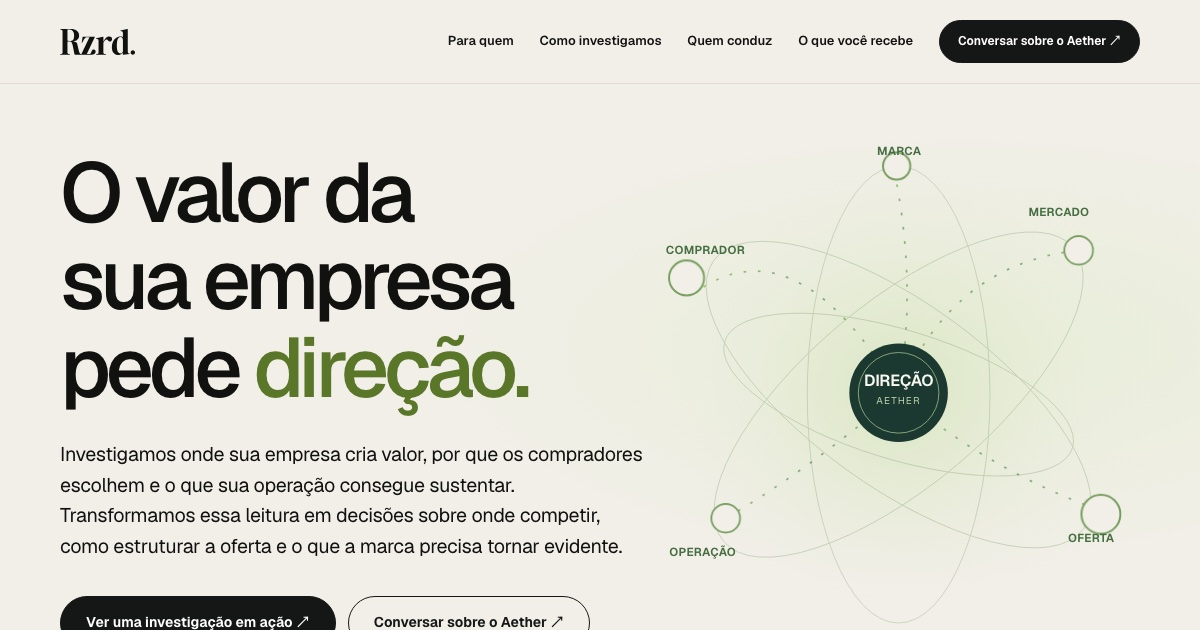
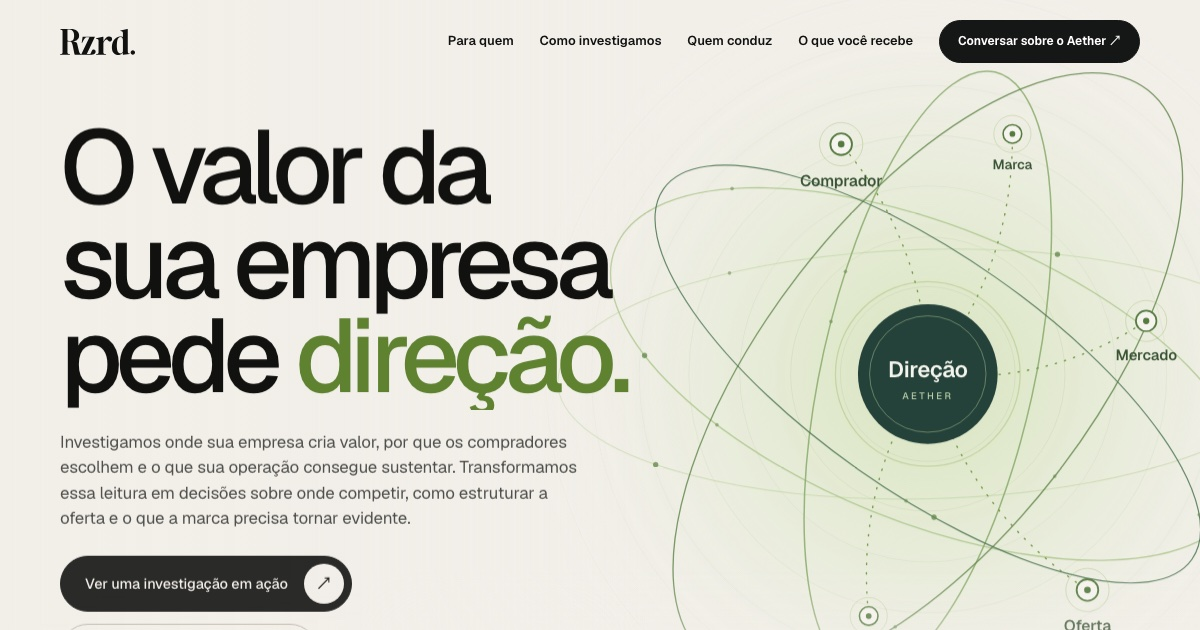
Aether: topo no estilo da Vortex com campo animado, demonstrações em iPad e página sem cara de IA
Campo de relações (comprador, mercado, oferta, operação e marca fluindo para a direção) com órbitas em movimento e inclinação pelo mouse; título grande com entrada por linha. Método, entregas e caso INNAP dentro de iPads. Tipografia só em Geist, sem selos, chips e caixas pastel; retratos grandes em Quem conduz; fechamento com as órbitas do topo. Texto e ordem do protótipo intactos.

diff --git a/aether/index.html b/aether/index.html
@@ -38,7 +38,8 @@
 <link href="favicon.svg" rel="icon" type="image/svg+xml"/>
 <link href="apple-touch-icon.png" rel="apple-touch-icon"/>
 <link as="font" crossorigin="" href="fonts/geist-latin.woff2" rel="preload" type="font/woff2"/>
-<link href="css/aether.css?v=1" rel="stylesheet"/>
+<link href="css/aether.css?v=2" rel="stylesheet"/>
+<link href="css/aether-v2.css?v=1" rel="stylesheet"/>
 </head><body>
 <svg width="0" height="0" style="position:absolute" aria-hidden="true"><symbol id="rzrdLogo" viewBox="0 0 1454 503.925">
 <path d="M0 494.173C0 492.462 0.855444 491.265 2.56633 490.58C9.06771 488.869 15.2269 487.33 21.0439 485.961C26.861 484.25 31.8225 482.197 35.9287 479.802C40.0348 477.406 43.2855 474.498 45.6807 471.076C48.076 467.312 49.2736 462.693 49.2736 457.218V40.4454C49.2736 34.9706 48.076 30.5223 45.6807 27.1005C43.2855 23.3365 40.0348 20.2569 35.9287 17.8617C31.8225 15.4664 26.861 13.5845 21.0439 12.2157C15.2269 10.5049 9.06771 8.79397 2.56633 7.08308C0.855444 6.39873 0 5.20111 0 3.4902C0 1.43714 0.855444 0.410608 2.56633 0.410608H213.006C236.958 0.410608 258.515 3.14804 277.677 8.62289C296.839 14.0977 313.093 22.31 326.438 33.2597C340.125 43.8672 350.732 57.041 358.26 72.7812C365.788 88.5214 369.723 106.828 370.065 127.701C370.407 140.704 368.868 152.509 365.446 163.116C362.024 173.381 357.234 182.62 351.074 190.833C345.257 198.703 338.243 205.546 330.03 211.363C321.818 217.18 313.093 221.971 303.854 225.735C292.904 230.183 280.586 233.434 266.899 235.487C253.554 237.198 241.406 238.224 230.457 238.566C243.117 239.593 255.265 241.133 266.899 243.186C278.533 244.897 288.798 247.463 297.695 250.885C306.591 253.964 313.948 257.899 319.765 262.69C325.924 267.48 329.859 273.469 331.57 280.654L364.933 420.776C368.354 434.805 371.947 445.926 375.711 454.138C379.475 462.008 383.41 468.339 387.516 473.129C391.965 477.578 396.584 480.999 401.375 483.395C406.165 485.79 411.469 488.185 417.286 490.58C419.339 491.265 420.365 492.462 420.365 494.173C420.365 496.226 419.339 497.253 417.286 497.253H299.234C294.444 497.253 290.851 497.253 288.456 497.253C286.403 496.911 284.863 496.397 283.836 495.713C282.81 494.686 281.954 493.318 281.27 491.607C280.928 489.554 280.415 486.645 279.73 482.881L245.341 315.043C240.209 288.695 233.707 270.218 225.837 259.61C217.967 249.003 209.584 243.699 200.687 243.699H144.741V457.218C144.741 462.693 145.939 467.312 148.334 471.076C150.729 474.498 153.98 477.406 158.086 479.802C162.534 482.197 167.496 484.25 172.971 485.961C178.788 487.33 184.947 488.869 191.448 490.58C193.502 491.265 194.528 492.462 194.528 494.173C194.528 496.226 193.502 497.253 191.448 497.253H2.56633C0.855444 497.253 0 496.226 0 494.173ZM144.741 202.124C144.741 209.652 145.083 215.469 145.768 219.576C146.452 223.682 148.505 226.761 151.927 228.814C155.349 230.525 160.31 231.723 166.812 232.407C173.655 232.749 183.065 233.092 195.041 233.434C205.991 233.434 216.256 231.894 225.837 228.814C235.76 225.393 244.315 219.575 251.501 211.363C258.686 202.809 264.161 191.517 267.925 177.488C272.031 163.116 273.913 144.81 273.571 122.568C272.887 99.6422 269.636 80.9935 263.819 66.622C258.002 51.9084 250.132 40.4454 240.209 32.2332C230.628 24.0209 219.165 18.3749 205.82 15.2953C192.817 12.2157 178.617 10.6759 163.219 10.6759H144.741V202.124Z" fill="currentColor"/>
@@ -50,7 +51,18 @@
 <header class="site-header"><div class="wrap inner"><a class="brand" href="https://mateusmvff-a11y.github.io/rzrd-previa/v1.html"><svg class="logo" viewBox="0 0 1454 503.925" role="img" aria-label="Rzrd."><use href="#rzrdLogo"/></svg></a><nav aria-label="Navegação principal" class="site-nav"><a href="#para-quem">Para quem</a><a href="#metodo">Como investigamos</a><a href="#direcao">Quem conduz</a><a href="#entrega">O que você recebe</a><a class="action" href="#contato">Conversar sobre o Aether ↗</a></nav><button aria-controls="mobileMenu" aria-expanded="false" class="mobile-toggle" id="menuBtn">Menu ☰</button></div></header>
 <nav aria-label="Navegação móvel" class="mobile-menu" hidden="" id="mobileMenu"><a href="#para-quem">Para quem</a><a href="#metodo">Como investigamos</a><a href="#direcao">Quem conduz</a><a href="#entrega">O que você recebe</a><a href="#contato">Vamos conversar</a></nav>
 <main>
-<section class="hero" id="topo"><div class="wrap hero-grid"><div class="hero-copy"><h1>O valor da sua empresa pede <em>direção.</em></h1><p class="lead">Investigamos onde sua empresa cria valor, por que os compradores escolhem e o que sua operação consegue sustentar. Transformamos essa leitura em decisões sobre onde competir, como estruturar a oferta e o que a marca precisa tornar evidente.</p><div class="hero-acts"><a class="action" href="#metodo">Ver uma investigação em ação ↗</a><a class="action ghost" href="#contato">Conversar sobre o Aether ↗</a></div></div><div class="hero-art"><svg aria-label="Campo de relações entre comprador, mercado, oferta, operação e marca convergindo em uma direção" role="img" viewbox="0 0 660 660"><defs><radialgradient id="bg"><stop stop-color="#D5E4BC" stop-opacity=".8"></stop><stop offset="1" stop-color="#F2EFE9" stop-opacity="0"></stop></radialgradient><lineargradient id="line"><stop stop-color="#91B86A"></stop><stop offset=".5" stop-color="#6E9F74"></stop><stop offset="1" stop-color="#8AA86D"></stop></lineargradient></defs><circle cx="330" cy="330" fill="url(#bg)" r="290"></circle><g fill="none" opacity=".36" stroke="#819D6D"><ellipse cx="330" cy="330" rx="255" ry="102" transform="rotate(36 330 330)"></ellipse><ellipse cx="330" cy="330" rx="255" ry="102" transform="rotate(90 330 330)"></ellipse><ellipse cx="330" cy="330" rx="255" ry="102" transform="rotate(140 330 330)"></ellipse><ellipse cx="330" cy="330" rx="203" ry="72" transform="rotate(17 330 330)"></ellipse></g><g class="hero-flow" fill="none" opacity=".82" stroke="url(#line)" stroke-width="2"><path d="M112 210 Q220 143 330 328"></path><path d="M531 169 Q390 184 330 328"></path><path d="M538 453 Q418 406 330 328"></path><path d="M137 468 Q230 414 330 328"></path><path d="M328 95 Q350 215 330 328"></path></g><g fill="#F2EFE9" stroke="#789E5F" stroke-width="2"><circle class="hero-node" cx="112" cy="210" r="18"></circle><circle class="hero-node" cx="531" cy="169" r="16"></circle><circle class="hero-node" cx="538" cy="453" r="20"></circle><circle class="hero-node" cx="137" cy="468" r="16"></circle><circle class="hero-node" cx="328" cy="95" r="14"></circle></g><g fill="#476E42" font-size="13" font-weight="650" letter-spacing=".3"><text x="70" y="173">COMPRADOR</text><text x="475" y="131">MERCADO</text><text x="519" y="495">OFERTA</text><text x="74" y="510">OPERAÇÃO</text><text x="306" y="63">MARCA</text></g><circle cx="330" cy="328" fill="#1B3931" r="55"></circle><circle cx="330" cy="328" fill="none" r="45" stroke="#8FAF81"></circle><text fill="#F7F9F0" font-size="18" font-weight="640" letter-spacing="-.4" text-anchor="middle" x="330" y="320">DIREÇÃO</text><text fill="#BBD3AB" font-size="11" letter-spacing="1.5" text-anchor="middle" x="330" y="341">AETHER</text></svg></div></div><div class="wrap hero-footer"><span>O invisível que move tudo.</span></div></section><div><section aria-labelledby="sector-title" class="sector section" id="para-quem">
+<section class="hero ax-hero" id="topo">
+<div aria-hidden="true" class="ax-fig"><div class="ax-tilt"></div></div>
+<div aria-hidden="true" class="ax-fade"></div>
+<div class="wrap ax-body">
+<h1 class="ax-h1"><span class="l"><span>O valor da</span></span> <span class="l"><span>sua empresa</span></span> <span class="l"><span>pede <em>direção.</em></span></span></h1>
+<div class="ax-side">
+<p class="lead">Investigamos onde sua empresa cria valor, por que os compradores escolhem e o que sua operação consegue sustentar. Transformamos essa leitura em decisões sobre onde competir, como estruturar a oferta e o que a marca precisa tornar evidente.</p>
+<div class="ax-acts"><a class="ax-btn" href="#metodo">Ver uma investigação em ação <span aria-hidden="true" class="a">↗</span></a><a class="ax-btn ghost" href="#contato">Conversar sobre o Aether <span aria-hidden="true" class="a">↗</span></a></div>
+</div>
+</div>
+<div class="wrap ax-foot"><span>O invisível que move tudo.</span></div>
+</section><div><section aria-labelledby="sector-title" class="sector section" id="para-quem">
 <div class="wrap">
 <div class="sector-heading">
 <div class="eyebrow">ONDE O AETHER FAZ SENTIDO</div>
@@ -100,7 +112,7 @@
 <div class="method-intro"><div><div class="eyebrow">INTELIGÊNCIA EM AÇÃO</div><h2>Qual caminho de crescimento faz mais sentido para esta empresa?</h2><p class="v30-method-context">Não começamos por um roteiro de ferramentas. A decisão empresarial determina o que precisa ser investigado — e a profundidade de cada leitura.</p></div>
 </div>
 <div class="v9-scenario-head"><div><span class="v9-scenario-index">EXEMPLO ILUSTRATIVO · SERVIÇOS ESPECIALIZADOS</span><h3>Uma empresa experiente. <em>Três maneiras de servir.</em></h3></div><div class="a22-scenario-copy"><p>Uma empresa de diagnóstico, projetos e acompanhamento. Ofertas diferentes, mas valor pouco distinto aos olhos de quem compra.</p><div class="a22-service-tags"><span>Diagnóstico</span><span>Projeto</span><span>Acompanhamento</span></div><small>Empresa hipotética; não representa um cliente da Rzrd.</small></div></div>
-<div class="method-shell">
+<div class="ipad ipad-l"><div class="ipad-bezel"><div class="ipad-screen"><div class="method-shell">
 <div class="method-toolbar"><b>QUATRO LEITURAS, UMA DIREÇÃO</b>
 <div aria-label="Explorar quatro instrumentos de análise" class="method-tools" role="tablist">
 <button aria-selected="true" class="active" data-view="0" role="tab" type="button">Critério de compra</button><button aria-selected="false" class="" data-view="1" role="tab" type="button">Posição</button><button aria-selected="false" class="" data-view="2" role="tab" type="button">Valor e capacidade</button><button aria-selected="false" class="" data-view="3" role="tab" type="button">Promessa</button>
@@ -220,7 +232,7 @@
 <div class="method-conclusion"><b>O QUE ISSO PODE MUDAR</b><strong id="methodOutcome">Investigar quais situações merecem ofertas, argumentos e níveis de acompanhamento distintos.</strong></div>
 <button aria-haspopup="dialog" class="v10-fw-main-trigger" data-open-current-fw="" id="methodOpenDeep" type="button">Explorar esta investigação <span aria-hidden="true">↗</span></button></aside></div>
 <div class="method-bottom"><span>QUATRO LEITURAS / UMA DECISÃO</span><div class="mini-bar"><b id="methodProgress"></b></div><button hidden="" id="methodPause" type="button">Pause</button></div>
-</div>
+</div></div></div></div>
 <p class="v13-method-disclaimer">Simulação ilustrativa; conclusões reais dependem de investigação e evidências.</p>
 <div aria-label="A investigação se adapta a cada projeto" class="v16-method-conclusion">
 <div><span class="v16-label">O QUE MUDA DE UM PROJETO PARA OUTRO</span>
@@ -238,7 +250,7 @@
 </div>
 <figure class="v19-case-art">
 <span class="v19-case-folio">RZRD. / AETHER / ACERVO REAL</span>
-<div class="v19-case-sheet"><span>REGISTRO DO PROJETO</span><img alt="Fragmento desfocado de um diagrama real de públicos do estudo INNAP" decoding="async" loading="lazy" src="img/img-1-425fa9bc.webp"/></div>
+<div class="ipad ipad-l ipad-sm"><div class="ipad-bezel"><div class="ipad-screen"><div class="v19-case-sheet"><span>REGISTRO DO PROJETO</span><img alt="Fragmento desfocado de um diagrama real de públicos do estudo INNAP" decoding="async" loading="lazy" src="img/img-1-425fa9bc.webp"/></div></div></div></div>
 <figcaption>Material do projeto com informações protegidas</figcaption>
 </figure>
 </aside>
@@ -421,7 +433,7 @@
 </div>
 
 </aside>
-<div aria-live="polite" class="v11-stage">
+<div class="ipad ipad-p"><div class="ipad-bezel"><div class="ipad-screen"><div aria-live="polite" class="v11-stage">
 <div class="v11-pages-head"><span>EXEMPLO DE ENTREGA / EMPRESA DE SERVIÇOS ESPECIALIZADOS · HIPOTÉTICA</span><span>RZRD. · AETHER</span></div>
 <div class="v11-page-wrap">
 <article aria-labelledby="deliverTab0" class="v11-deliver-panel" data-deliver-panel="0" id="deliverPanel0" role="tabpanel">
@@ -508,7 +520,7 @@
 </article>
 </div>
 <div class="v11-pages-bottom"><span>CONJUNTO ILUSTRATIVO · NÃO REPRESENTA UM CLIENTE REAL</span></div>
-</div>
+</div></div></div></div>
 </div>
 <div class="v11-close"><p>O Aether entrega direção documentada e aplicações de referência para a empresa aplicar com a equipe que preferir. Identidade final, sites e campanhas têm escopos próprios. Para criação, produção e gestão contínua de conteúdo, <a class="v20-vortex-link" href="https://rzrd.com.br/vortex/">conheça o Vortex ↗</a>.</p></div>
 </div>
@@ -561,5 +573,6 @@
 
 
 
-<script src="js/aether.js?v=1"></script>
+<script src="js/aether.js?v=2"></script>
+<script src="js/aether-v2.js?v=1"></script>
 </body></html>

diff --git a/aether/css/aether-v2.css b/aether/css/aether-v2.css
@@ -1,0 +1,152 @@
+/* Aether v2 — camada da Rzrd. sobre o protótipo
+   Topo no estilo da Vortex, iPads nas demonstrações, tipografia única (Geist),
+   sem selos, chips e caixas pastel. Texto e ordem do protótipo intactos. */
+
+:root{--ax-green:#5E8230;--ax-deep:#1B3931;--ax-line:#D3CEC5;--ax-ease:cubic-bezier(.22,1,.36,1)}
+
+/* ---------- tipografia única ---------- */
+body :where(h1,h2,h3,h4,h5,p,strong,b,em,i,span,div,figcaption,small,a,button,li,label,dt,dd,blockquote){font-family:Geist,Inter,Arial,sans-serif!important}
+/* peças que reproduzem materiais reais do cliente mantêm a serifa própria */
+.v7-i-paper *,.v7-i-phone *,.v7-a-paper-one *,.v7-a-paper-two *,.v7-a-edition *,.v7-a-note *,.v7-a-covermini *,.v7-a-textmini *{font-family:Georgia,serif!important}
+main :is(h1,h2,h3,h4) :is(em,i){font-style:normal!important;color:var(--ax-green)!important}
+main h2{font-weight:500!important;letter-spacing:-.052em!important}
+main h3{letter-spacing:-.035em}
+
+/* títulos de seção: um só tamanho, uma só voz */
+#sector-title,.method-intro h2,.leader-heading h2,#deliveriesHeading,.process-head h2,#contato>.wrap>h2{
+  font-size:clamp(46px,5.6vw,98px)!important;line-height:.94!important;font-weight:500!important;letter-spacing:-.058em!important;max-width:14ch}
+#contato>.wrap>h2{max-width:16ch}
+.leaders :is(h2,h3) :is(em,i),.method-shell :is(h2,h3,h4) :is(em,i),.v11-shelf :is(h2,h3) :is(em,i),.experience-panel :is(h2,h3) :is(em,i),#contato :is(h2,h3) :is(em,i){color:#B5D07F!important}
+
+/* ---------- sem selos ("gotas") ---------- */
+.sector-heading .eyebrow,.method-intro .eyebrow,.leader-heading .eyebrow,.v11-heading .eyebrow,.process-head .eyebrow,
+#contato .eyebrow,.v26-evidence-heading .eyebrow,.v19-case-folio,.v19-case-sheet>span,.v19-case-kicker,.v16-label,.sector-photo-credit{display:none!important}
+
+/* ---------- cabeçalho: some no topo, aparece com a rolagem ---------- */
+.site-header{transition:background .6s var(--ax-ease),border-color .6s var(--ax-ease),backdrop-filter .6s}
+body:not(.ax-scrolled) .site-header{background:transparent!important;border-color:transparent!important;-webkit-backdrop-filter:none;backdrop-filter:none}
+.site-nav .action{border-radius:99px}
+
+/* ---------- topo ---------- */
+.ax-hero{position:relative;min-height:100svh!important;height:auto!important;display:flex!important;flex-direction:column;overflow:hidden;isolation:isolate;padding:0!important;margin:0!important;background:var(--paper)}
+.ax-fig{position:absolute;z-index:0;top:50%;right:-12vw;width:min(80vw,132svh);aspect-ratio:1;transform:translateY(-50%);perspective:1400px;pointer-events:none;opacity:0;transition:opacity 2s var(--ax-ease)}
+.ax-in .ax-fig{opacity:1}
+.ax-tilt{width:100%;height:100%;will-change:transform}
+.ax-fig svg{display:block;width:100%;height:100%;overflow:visible}
+.ax-fade{position:absolute;inset:0;z-index:0;pointer-events:none;background:linear-gradient(90deg,#F2EFE9 0%,rgba(242,239,233,.95) 30%,rgba(242,239,233,0) 54%),linear-gradient(0deg,rgba(242,239,233,.8) 0%,rgba(242,239,233,0) 24%)}
+.ax-body{flex:1;position:relative;z-index:1;display:grid;grid-template-columns:repeat(12,minmax(0,1fr));column-gap:clamp(16px,2vw,32px);align-content:end;padding-top:120px;padding-bottom:clamp(70px,11svh,120px)}
+.ax-h1{grid-column:1/span 8;margin:0!important;font-weight:500!important;letter-spacing:-.064em!important;line-height:.9!important;font-size:clamp(60px,min(9vw,16.5svh),196px)!important;color:var(--ink);max-width:none!important}
+.ax-h1 .l{display:block;overflow:hidden;padding:0 .05em .09em 0;margin-bottom:-.09em}
+.ax-h1 .l>span{display:inline-block;transform:translateY(108%);transition:transform 1.35s var(--ax-ease)}
+.ax-h1 .l:nth-child(2)>span{transition-delay:.09s}
+.ax-h1 .l:nth-child(3)>span{transition-delay:.18s}
+.ax-in .ax-h1 .l>span{transform:none}
+.ax-h1 em{font-style:normal!important;color:var(--ax-green)!important}
+.ax-side{grid-column:1/span 6;margin-top:clamp(26px,4.4svh,48px);opacity:0;transform:translateY(16px);transition:opacity 1.1s var(--ax-ease) .55s,transform 1.1s var(--ax-ease) .55s}
+.ax-in .ax-side{opacity:1;transform:none}
+.ax-side .lead{margin:0;font-size:clamp(17px,1.25vw,20px);line-height:1.5;letter-spacing:-.012em;color:#3B3D38;max-width:31em}
+.ax-acts{display:flex;flex-wrap:wrap;gap:12px;margin-top:clamp(24px,3.6svh,34px)}
+.ax-btn{display:inline-flex;align-items:center;justify-content:space-between;gap:16px;padding:7px 7px 7px 24px;border-radius:99px;background:var(--ink);color:var(--paper);border:1px solid var(--ink);font-size:14.5px;font-weight:500;letter-spacing:-.01em;line-height:1.2;text-decoration:none;white-space:nowrap;transition:background .5s var(--ax-ease),color .5s var(--ax-ease),border-color .5s var(--ax-ease)}
+.ax-btn .a{display:grid;place-items:center;width:40px;height:40px;border-radius:50%;background:var(--paper);color:var(--ink);font-size:15px;transition:transform .6s var(--ax-ease),background .5s,color .5s}
+.ax-btn:hover{background:var(--ax-deep);border-color:var(--ax-deep)}
+.ax-btn:hover .a{transform:rotate(45deg)}
+.ax-btn.ghost{background:transparent;color:var(--ink);border-color:#BDB7AC}
+.ax-btn.ghost .a{background:var(--ink);color:var(--paper)}
+.ax-btn.ghost:hover{background:var(--ink);color:var(--paper);border-color:var(--ink)}
+.ax-btn.ghost:hover .a{background:var(--paper);color:var(--ink)}
+.ax-foot{position:absolute;left:0;right:0;bottom:clamp(20px,3svh,30px);z-index:2;display:flex;justify-content:flex-end;font-size:12.5px;letter-spacing:-.005em;color:#7B7D74;pointer-events:none}
+.ax-fig text{font-family:Geist,Inter,Arial,sans-serif}
+
+/* ---------- iPad ---------- */
+.ipad{position:relative;border-radius:clamp(28px,3.1vw,46px);padding:2.5px;background:linear-gradient(140deg,#E4E5E1 0%,#A7AAA3 22%,#D6D8D3 48%,#8F928B 74%,#C9CBC6 100%);
+  box-shadow:0 1px 0 #ffffff80 inset,0 60px 90px -42px rgba(17,25,20,.55),0 22px 40px -26px rgba(17,25,20,.4)}
+.ipad-bezel{position:relative;border-radius:calc(clamp(28px,3.1vw,46px) - 2.5px);padding:clamp(11px,1.2vw,18px);background:#0B0C0B;box-shadow:0 0 0 1px #2a2b29 inset}
+.ipad-bezel::before{content:"";position:absolute;top:calc(clamp(11px,1.2vw,18px)/2 - 3px);left:50%;width:6px;height:6px;margin-left:-3px;border-radius:50%;background:radial-gradient(circle at 40% 35%,#3b4650,#0e1114 70%);box-shadow:0 0 0 1px #1c1e1d}
+.ipad-screen{position:relative;border-radius:clamp(12px,1.3vw,20px);overflow:visible;clip-path:inset(0 round clamp(12px,1.3vw,20px));background:#000;isolation:isolate}
+.ipad-screen::after{content:"";position:absolute;inset:0;pointer-events:none;z-index:50;background:linear-gradient(118deg,rgba(255,255,255,.075) 0%,rgba(255,255,255,.02) 34%,rgba(255,255,255,0) 35%);mix-blend-mode:screen}
+.ipad-l .ipad-screen{aspect-ratio:1.43;display:flex;flex-direction:column}
+.ipad-p .ipad-screen{display:flex;flex-direction:column}
+
+/* demonstração do método dentro do iPad */
+#metodo .ipad{margin:clamp(40px,5vw,76px) auto 0;max-width:1260px}
+#metodo .ipad .method-shell{margin:0!important;border:0!important;border-radius:0!important;flex:1 0 auto;display:flex;flex-direction:column}
+@media (max-width:1050px){#metodo .ipad{max-width:760px}#metodo .ipad-l .ipad-screen{aspect-ratio:auto}}
+@media (min-width:1051px){#metodo .ipad .method-content{display:grid!important;grid-template-columns:minmax(0,1.62fr) minmax(270px,.9fr)!important}#metodo .ipad .method-side{border-top:0!important}}
+#metodo .ipad .method-content{flex:1}
+/* entregas: página dentro de um iPad em pé, apoiado sobre o painel */
+.v11-collection{background:var(--ax-deep)!important;border:0!important;box-shadow:none!important;border-radius:0}
+.v11-collection>.ipad{align-self:center;margin:clamp(28px,3.4vw,52px) clamp(28px,3.4vw,56px) clamp(28px,3.4vw,52px) 0}
+.v11-collection .ipad .v11-stage{border-radius:0}
+/* caso INNAP: registro na tela de um iPad */
+.v19-case-art{background:var(--ax-deep)!important;justify-content:center!important;align-items:center}
+.v19-case-art .ipad{width:min(100%,380px);border-radius:26px}
+.v19-case-art .ipad-bezel{border-radius:23.5px;padding:10px}
+.v19-case-art .ipad-screen{border-radius:12px;background:#F4F1E9;display:grid;place-items:center}
+.v19-case-art .v19-case-sheet{transform:none!important;box-shadow:none!important;max-width:none!important;width:100%!important;height:100%;padding:14px!important;display:grid;place-items:center;background:#F4F1E9}
+.v19-case-art .v19-case-sheet img{width:100%;height:auto;display:block}
+.v19-case-art figcaption{margin-top:18px;font-size:12.5px;color:#BFD0C3;letter-spacing:0;text-transform:none}
+
+/* ---------- menos "cara de IA": sem caixas pastel, chips e cartões flutuantes ---------- */
+.v9-scenario-head{background:transparent!important;border:0!important;border-top:1px solid var(--ax-line)!important;border-bottom:1px solid var(--ax-line)!important;border-radius:0!important;box-shadow:none!important;padding-left:0!important;padding-right:0!important}
+.a22-service-tags{gap:0!important}
+.a22-service-tags>*{background:none!important;border:0!important;border-radius:0!important;padding:0!important;font-size:14px!important;font-weight:550!important;color:var(--ink)!important;text-transform:none!important;letter-spacing:-.01em!important}
+.a22-service-tags>*+*::before{content:"·";margin:0 .6em;color:#9A9C93}
+.v19-case-proof{background:transparent!important;border:0!important;border-top:1px solid var(--ax-line)!important;border-radius:0!important}
+.v26-evidence-paper{border-radius:0!important;box-shadow:none!important}
+.sector-mode-controls,.sector-mode-controls *{box-shadow:none!important}
+
+@media (max-width:1100px){
+  .ax-fig{right:-15vw;width:min(86vw,112svh)}
+  .ax-h1{grid-column:1/-1}
+  .ax-side{grid-column:1/span 8}
+}
+@media (max-width:900px){
+  .v11-collection>.ipad{margin:18px}
+}
+@media (max-width:760px){
+  .ax-fig{top:-3svh;right:auto;left:50%;width:min(126vw,58svh);transform:translateX(-50%)}
+  .ax-lab{font-size:25px}
+  .ax-fade{background:linear-gradient(180deg,rgba(242,239,233,0) 22%,rgba(242,239,233,.88) 44%,#F2EFE9 58%)}
+  .ax-body{padding-top:44svh;padding-bottom:64px}
+  .ax-h1{font-size:clamp(50px,14.5vw,76px)!important}
+  .ax-side{grid-column:1/-1}
+  .ax-acts{flex-direction:column;align-items:stretch}
+  .ax-btn{justify-content:space-between}
+  .ax-foot{display:none}
+  /* no celular a moldura vira uma borda fina, para o conteúdo continuar legível */
+  .ipad{border-radius:24px;padding:1.5px}
+  .ipad-bezel{border-radius:22.5px;padding:7px}
+  .ipad-bezel::before{display:none}
+  .ipad-screen{border-radius:16px}
+  .ipad-l .ipad-screen{aspect-ratio:auto}
+  #metodo .ipad{margin-left:calc(-.5*var(--pad));margin-right:calc(-.5*var(--pad))}
+  .v11-collection>.ipad{margin:14px 10px}
+  .v19-case-art .ipad{width:62%}
+}
+@media (prefers-reduced-motion:reduce){
+  .ax-h1 .l>span,.ax-side,.ax-fig{transition:none!important;transform:none!important;opacity:1!important}
+}
+
+/* ---------- quem conduz: retratos grandes, leitura editorial ---------- */
+@media (min-width:761px){
+  .leader-grid{gap:clamp(28px,4vw,72px)!important}
+  .leader-card{display:block!important;border-top:0!important;padding:0!important}
+  .leader-card .leader-art{aspect-ratio:1/1!important;border-radius:0!important;padding:0!important;width:100%;margin-bottom:clamp(22px,2.4vw,34px)}
+  .leader-card .leader-art img{width:100%;height:100%;object-fit:cover;object-position:50% 22%;filter:grayscale(1) contrast(1.04);transition:filter 1.2s var(--ax-ease),transform 1.6s var(--ax-ease)}
+  .leader-card:hover .leader-art img{filter:none;transform:scale(1.025)}
+  .leader-card .leader-bio h3{font-size:clamp(34px,3.4vw,54px)!important;margin:8px 0 16px!important;letter-spacing:-.045em}
+  .leader-card .leader-bio p{max-width:36em}
+}
+.leader-art:before{display:none!important}
+.leader-bio .eyebrow{text-transform:none!important;letter-spacing:0!important;font-size:13.5px!important;font-weight:500!important;color:#A9C886!important}
+
+/* ---------- fechamento: o campo do topo volta, sem caixas escuras ---------- */
+#contato{position:relative;overflow:hidden;isolation:isolate}
+#contato>.wrap{position:relative;z-index:1}
+.ax-echo{position:absolute;z-index:0;left:50%;top:44%;width:min(150vw,1700px);aspect-ratio:1;transform:translate(-50%,-50%);pointer-events:none;opacity:.9}
+.ax-echo svg{display:block;width:100%;height:100%}
+.v10-buyer-assurance{background:transparent!important;border:0!important;gap:clamp(20px,4vw,64px)!important;max-width:900px!important}
+.v10-buyer-assurance>div{background:transparent!important;border-top:1px solid rgba(20,36,22,.45);padding:18px 0 0!important}
+.v10-buyer-assurance b{color:#132216!important;font-size:15px!important}
+.v10-buyer-assurance p{color:#22361F!important;font-size:13.5px!important}
+.v25-contact-card{border-radius:6px!important;box-shadow:0 40px 80px -40px rgba(12,30,18,.5)!important;border:0!important}

diff --git a/aether/js/aether-v2.js b/aether/js/aether-v2.js
@@ -1,0 +1,114 @@
+/* Aether v2 — topo vivo (campo de relações) e cabeçalho que aparece com a rolagem */
+(function(){
+  const hero=document.querySelector('.ax-hero');
+  if(!hero) return;
+  const reduce=matchMedia('(prefers-reduced-motion: reduce)').matches;
+  const fine=matchMedia('(hover: hover) and (pointer: fine)').matches;
+  const NS='http://www.w3.org/2000/svg';
+  const f=n=>n.toFixed(2);
+  const el=(tag,attrs,parent)=>{const e=document.createElementNS(NS,tag);for(const k in attrs)e.setAttribute(k,attrs[k]);if(parent)parent.appendChild(e);return e};
+
+  /* cabeçalho */
+  const onScroll=()=>document.body.classList.toggle('ax-scrolled',scrollY>hero.offsetHeight*.55);
+  addEventListener('scroll',onScroll,{passive:true});onScroll();
+
+  /* campo: órbitas que precessam, cinco forças que circulam e fluem para a direção */
+  const tilt=hero.querySelector('.ax-tilt');
+  const svg=el('svg',{viewBox:'-500 -500 1000 1000','aria-hidden':'true'},tilt);
+  const defs=el('defs',{},svg);
+  const glow=el('radialGradient',{id:'axGlow'},defs);
+  el('stop',{offset:'0','stop-color':'#D3E3B6','stop-opacity':'.95'},glow);
+  el('stop',{offset:'.55','stop-color':'#E3EBD3','stop-opacity':'.55'},glow);
+  el('stop',{offset:'1','stop-color':'#F2EFE9','stop-opacity':'0'},glow);
+  el('circle',{r:490,fill:'url(#axGlow)'},svg);
+
+  const field=el('g',{fill:'none'},svg);
+  const rings=[];
+  for(let i=0;i<7;i++){rings.push(el('circle',{r:110+i*58,stroke:'#8FAE74','stroke-opacity':f(.2-i*.02),'stroke-width':1},field))}
+
+  const ORB=[
+    {rx:445,ry:150,a:-18,s:2.2,c:'#C6D8AA',w:1.3},
+    {rx:405,ry:178,a:34,s:-1.6,c:'#A6C384',w:1.6},
+    {rx:372,ry:128,a:92,s:1.4,c:'#83A764',w:1.8},
+    {rx:432,ry:196,a:142,s:-1.9,c:'#5E8446',w:1.6},
+    {rx:388,ry:142,a:206,s:1.2,c:'#3F6B45',w:1.4}
+  ];
+  const orbG=el('g',{fill:'none'},svg);
+  ORB.forEach(o=>{o.e=el('ellipse',{rx:o.rx,ry:o.ry,stroke:o.c,'stroke-width':o.w,'stroke-opacity':'.85'},orbG)});
+
+  const flowG=el('g',{fill:'none',stroke:'#6F9640','stroke-width':'1.7','stroke-linecap':'round','stroke-dasharray':'1.5 10'},svg);
+  const partG=el('g',{fill:'#5E8446'},svg);
+  const nodeG=el('g',{},svg);
+
+  const NODES=[
+    {t:'Comprador',h:-116,R:300},
+    {t:'Marca',h:-64,R:318},
+    {t:'Mercado',h:-10,R:272},
+    {t:'Oferta',h:46,R:312},
+    {t:'Operação',h:102,R:292}
+  ];
+  NODES.forEach(n=>{
+    n.flow=el('path',{},flowG);
+    n.g=el('g',{},nodeG);
+    n.halo=el('circle',{r:26,fill:'none',stroke:'#7EA03F','stroke-opacity':'.35'},n.g);
+    n.dot=el('circle',{r:13,fill:'#F7F5EF',stroke:'#4E7537','stroke-width':'2.2'},n.g);
+    el('circle',{r:4,fill:'#4E7537'},n.g);
+    n.lab=el('text',{class:'ax-lab','font-size':'19','font-weight':'560','letter-spacing':'-.2',fill:'#2F4A2B'},n.g);
+    n.lab.textContent=n.t;
+  });
+  const PARTS=[];
+  for(let i=0;i<16;i++){PARTS.push({o:i%5,p:i*1.71,v:(.16+((i*37)%10)/55)*(i%2?1:-1),c:el('circle',{r:i%3?2.2:3.2,'fill-opacity':i%3?'.55':'.8'},partG)})}
+
+  /* núcleo */
+  const core=el('g',{},svg);
+  const pulse=el('circle',{r:80,fill:'none',stroke:'#7EA03F','stroke-width':'1.5'},core);
+  el('circle',{r:84,fill:'#1B3931'},core);
+  el('circle',{r:70,fill:'none',stroke:'#8FAF81','stroke-opacity':'.7'},core);
+  const t1=el('text',{y:4,'text-anchor':'middle','font-size':'27','font-weight':'600','letter-spacing':'-.6',fill:'#F4F6EE'},core);t1.textContent='Direção';
+  const t2=el('text',{y:30,'text-anchor':'middle','font-size':'11.5','font-weight':'500','letter-spacing':'3',fill:'#B7CFA5'},core);t2.textContent='AETHER';
+
+  const pt=(o,ang,th)=>{const r=th*Math.PI/180,x=o.rx*Math.cos(ang),y=o.ry*Math.sin(ang);return[x*Math.cos(r)-y*Math.sin(r),x*Math.sin(r)+y*Math.cos(r)]};
+
+  function tick(t){
+    rings.forEach((r,i)=>r.setAttribute('r',f(110+i*58+Math.sin(t*.6-i*.7)*5)));
+    ORB.forEach(o=>{o.th=o.a+t*o.s;o.e.setAttribute('transform',`rotate(${f(o.th)})`)});
+    NODES.forEach((n,i)=>{
+      const ang=(n.h+8*Math.sin(t*.32+i*1.7))*Math.PI/180,R=n.R+12*Math.sin(t*.47+i*1.3);
+      const x=R*Math.cos(ang),y=R*Math.sin(ang);
+      const z=Math.sin(t*.3+i*2.1); /* respiração de profundidade */
+      n.g.setAttribute('transform',`translate(${f(x)} ${f(y)}) scale(${f(.94+.08*z)})`);
+      if(!n.w)n.w=n.lab.getComputedTextLength();
+      n.lab.setAttribute('x',f(-n.w/2));
+      n.lab.setAttribute('y','50');
+      const mx=x*.5-y*.18,my=y*.5+x*.18;
+      n.flow.setAttribute('d',`M${f(x)} ${f(y)}Q${f(mx)} ${f(my)} 0 0`);
+      n.flow.setAttribute('stroke-dashoffset',f(-t*22));
+    });
+    PARTS.forEach(q=>{const o=ORB[q.o];const [x,y]=pt(o,q.p+t*q.v,o.th);q.c.setAttribute('cx',f(x));q.c.setAttribute('cy',f(y))});
+    const ph=(t*.45)%1;pulse.setAttribute('r',f(84+ph*70));pulse.setAttribute('stroke-opacity',f(.5*(1-ph)));
+  }
+
+  let on=true,mx=0,my=0,tx=0,ty=0;
+  if(fine){hero.addEventListener('pointermove',e=>{const r=hero.getBoundingClientRect();tx=(e.clientX-r.left)/r.width-.5;ty=(e.clientY-r.top)/r.height-.5});hero.addEventListener('pointerleave',()=>{tx=ty=0})}
+  new IntersectionObserver(es=>es.forEach(e=>on=e.isIntersecting),{rootMargin:'80px'}).observe(hero);
+  const t0=performance.now();
+  function loop(now){
+    if(on){const t=(now-t0)/1000+6;mx+=(tx-mx)*.05;my+=(ty-my)*.05;tilt.style.transform=`rotateY(${f(mx*14)}deg) rotateX(${f(-my*9)}deg)`;tick(t)}
+    requestAnimationFrame(loop);
+  }
+  if(reduce) tick(9); else requestAnimationFrame(loop);
+  requestAnimationFrame(()=>requestAnimationFrame(()=>hero.classList.add('ax-in')));
+
+  /* eco no fechamento: as mesmas órbitas, em linhas claras sobre o verde */
+  const cta=document.getElementById('contato');
+  if(cta){
+    const box=document.createElement('div');box.className='ax-echo';box.setAttribute('aria-hidden','true');cta.prepend(box);
+    const es=el('svg',{viewBox:'-500 -500 1000 1000'},box);
+    const eg=el('g',{fill:'none',stroke:'#F2EFE9'},es);
+    const EO=ORB.map((o,i)=>({o,e:el('ellipse',{rx:o.rx,ry:o.ry,'stroke-opacity':f(.16+i*.025),'stroke-width':1.2},eg)}));
+    const ED=[];for(let i=0;i<10;i++)ED.push({o:ORB[i%5],p:i*2.3,v:(.1+i%4*.04)*(i%2?1:-1),c:el('circle',{r:2.6,fill:'#F2EFE9','fill-opacity':'.5'},es)});
+    let eon=false;new IntersectionObserver(x=>x.forEach(e=>eon=e.isIntersecting)).observe(cta);
+    const etick=t=>{EO.forEach((q,i)=>q.e.setAttribute('transform',`rotate(${f(q.o.a+t*q.o.s*.7)})`));ED.forEach(d=>{const [x,y]=pt(d.o,d.p+t*d.v,d.o.a+t*d.o.s*.7);d.c.setAttribute('cx',f(x));d.c.setAttribute('cy',f(y))})};
+    if(reduce) etick(9); else (function l(n){if(eon)etick(n/1000+6);requestAnimationFrame(l)})(0);
+  }
+})();
